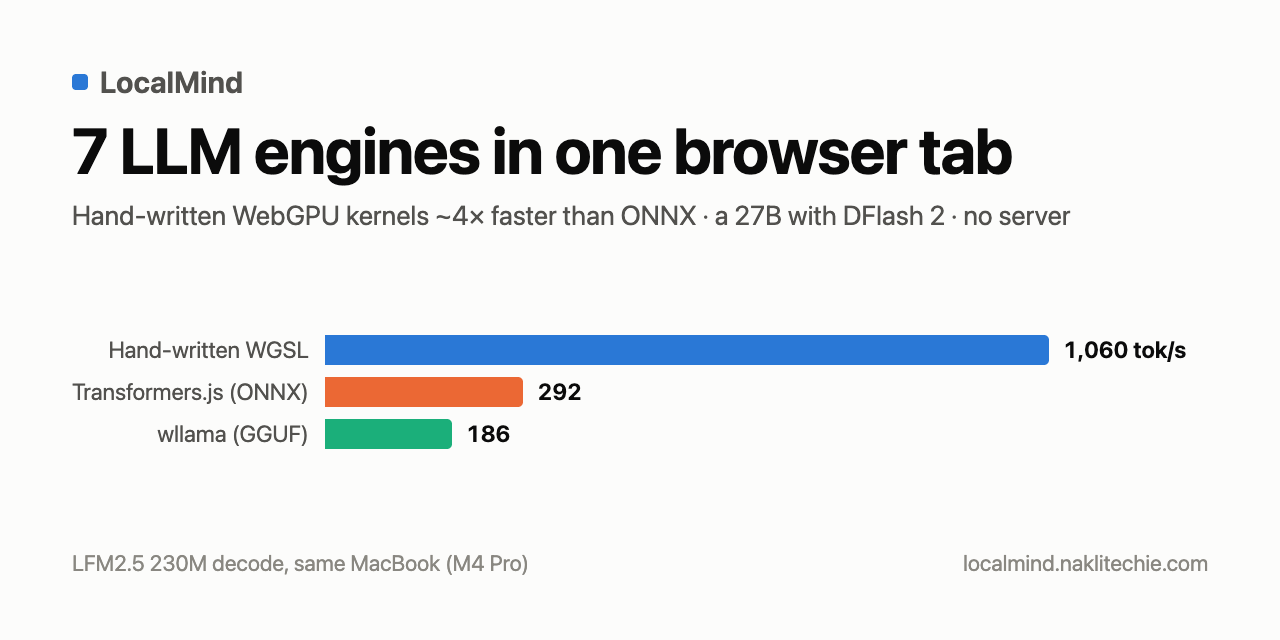
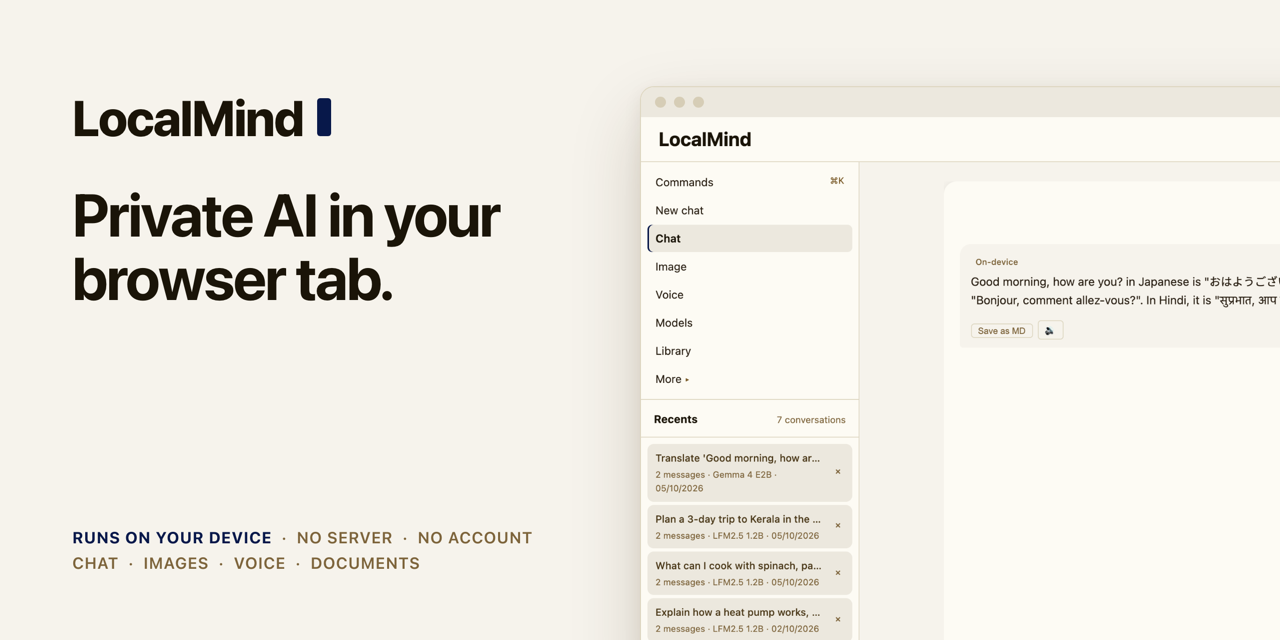
docs(readme): the house shape around the new UI, 1,557 -> 997 words (110 lines); new link cards
README rebuilt to README-DOCTRINE: header, install before why, three product
sections, commands, the six Node suites as the gate, license + pointers. The
hero is the redesigned app (sidebar, picker, a Gemma 4 E2B answer on the device).

Cut, not deleted: engine and model credits, the Mayur acknowledgment and the
host-worker paragraph move to ARCHITECTURE.md (## Credits, ## Using the workers
from another host); the image-server paragraph moves to FEATURES.md.

Link cards: marketing/social.png (repo, 1280x640) and og.png (app, 1200x630)
are one composition: the name, "Private AI in your browser tab.", the app.
They replace the September "7 LLM engines" chart, which the nine-engine app
had outgrown. index.html meta description / og:title / og:description /
og:image:alt follow the README pitch.

Changed region(s): [[0.0312, 0.0938, 1.0, 1.0], [0.0625, 0.8125, 0.4062, 0.9062], [0.75, 0.875, 0.9375, 0.9062]]

diff --git a/index.html b/index.html
@@ -5,15 +5,15 @@
   <meta name="viewport" content="width=device-width, initial-scale=1.0">
   <meta name="author" content="Chirag Patnaik">
   <meta name="version" content="2.6.0">
-  <meta name="description" content="Seven LLM engines in one browser tab: hand-written WebGPU kernels about 4x faster than ONNX, a 27B with DFlash 2 speculative decoding, plus image, voice and OCR. No server, no data leaves your device.">
+  <meta name="description" content="Private AI in your browser tab: chat, make images, talk to your documents and use your voice, with the models running on your own device. No server, no account.">
   <meta property="og:type" content="website">
   <meta property="og:url" content="https://localmind.naklitechie.com/">
-  <meta property="og:title" content="LocalMind — 7 LLM engines in one browser tab">
-  <meta property="og:description" content="Seven LLM engines in one browser tab: hand-written WebGPU kernels about 4x faster than ONNX, a 27B with DFlash 2 speculative decoding, plus image, voice and OCR. No server, no data leaves your device.">
+  <meta property="og:title" content="LocalMind — private AI in your browser tab">
+  <meta property="og:description" content="Private AI in your browser tab: chat, make images, talk to your documents and use your voice, with the models running on your own device. No server, no account.">
   <meta property="og:image" content="https://localmind.naklitechie.com/og.png">
   <meta property="og:image:width" content="1200">
   <meta property="og:image:height" content="630">
-  <meta property="og:image:alt" content="LocalMind: LFM2.5 230M decodes at 1,060 tok/s on hand-written WGSL kernels vs 292 on ONNX and 186 on wllama">
+  <meta property="og:image:alt" content="LocalMind: Private AI in your browser tab, beside the app with its sidebar and a chat answered on the device">
   <meta name="twitter:card" content="summary_large_image">
   <meta name="twitter:image" content="https://localmind.naklitechie.com/og.png">
   <title>LocalMind — Private AI Chat in Your Browser</title>

diff --git a/README.md b/README.md
@@ -1,114 +1,110 @@
-# LocalMind
+<h1 align="center">LocalMind</h1>
 
-**Private AI in your browser tab.** Chat, generate images, search the web, and talk to your documents — running entirely on your own device. No server, no API keys, no data leaving your machine.
+<p align="center"><b>Private AI in your browser tab. Chat, make images, talk to your documents and use your voice,<br>with the models running on your own device.</b></p>
 
-**▶ [Try it live](https://naklitechie.github.io/LocalMind)**  ·  **[Guided tour](https://naklitechie.github.io/LocalMind/guide/)**
+<p align="center">A static web page with no build step. Chrome, Edge or Firefox with WebGPU. No account, no server, no telemetry.</p>
 
-![LocalMind running on-device](guide/img/01-overview.jpg)
+<p align="center">
+  <img alt="license: MIT" src="https://img.shields.io/badge/license-MIT-08184a?style=flat-square">
+  <img alt="build step: none" src="https://img.shields.io/badge/build%20step-none-08184a?style=flat-square">
+  <img alt="account: none" src="https://img.shields.io/badge/account-none-08184a?style=flat-square">
+  <img alt="server: none" src="https://img.shields.io/badge/server-none-08184a?style=flat-square">
+</p>
 
-## What is it?
+<p align="center"><img src="marketing/hero.jpg" width="880" alt="LocalMind in Chrome: the sidebar with Chat, Image, Voice, Models and Library on the left, and Gemma 4 E2B answering a Japanese, French and Hindi translation on the device"></p>
 
-LocalMind is a single web page that runs real AI models **on your own device**. Open the link, pick a model, and start chatting — the model downloads once, caches in your browser, and works offline after that. Your conversations, files, and memory never leave your machine.
+## Install
 
-It began as a private chatbot and grew into a small **AI workbench**: chat, image generation, document Q&A, OCR, web research, and voice — all local.
+| Where | How |
+|---|---|
+| Your browser | Open **[localmind.naklitechie.com](https://localmind.naklitechie.com)** in Chrome or Edge 113+, or Firefox 130+ |
+| Your own copy | `git clone https://github.com/NakliTechie/LocalMind && cd LocalMind && python3 -m http.server 8080` |
 
-> **The promise: no server · no API keys · no data leaving your device.** The only thing that ever touches the network is a web search — and only when *you* press the search button.
+On first open LocalMind downloads LFM2.5 230M (~140 MB) once and keeps it in the browser's cache, so the next start
+skips the download; where Chrome already has Gemini Nano, it starts on that with no download. Tap an example prompt or
+type. The model picker above the message box lists what is already on this device first; pick a bigger model when you
+want more. To drive the loaded model from a script, turn on Settings → JavaScript API:
 
-## What you can do
-
-- 💬 **Chat with private local models** — eleven to choose from, from a tiny ~140 MB model (or Chrome's own Gemini Nano, a 0-byte download) up to a **27B-class model (Ternary Bonsai 2 27B, ternary 1.75-bit)** running entirely in the tab. They reason, write, and code.
-- 🎨 **Generate images** — text-to-image on your GPU, right in the tab.
-- 🌫 **Watch text "denoise"** — an experimental diffusion-text mode (a different way of generating).
-- 🌐 **Search the web** *(optional)* — bring your own free search key; answers come back with clickable sources.
-- 📄 **Chat with your documents** — drop in PDFs, Word docs, notes, or a whole folder and ask questions across them. Multilingual search (100+ languages, via a multilingual‑e5 embedder) — ask in one language about documents in another. Flip on **sharper answers** (Settings) and it double-checks which passages *actually* answer your question — so replies quote the right part, not just a keyword match. It remembers across sessions.
-- 🔎 **Extract text from images & PDFs (OCR)** — drop in a photo, screenshot, or scanned PDF and get back clean, selectable text or Markdown — tables and formulas included. Runs entirely on your GPU (GLM-OCR); the document never leaves your device. Needs WebGPU (Chrome/Edge); the model downloads once (~1.4 GB), then works offline. You can also point it at the model folder on disk for zero runtime fetch.
-- 🖼 **See & hear** — some models accept images and audio; voice-to-text works on any model.
-- 📷 **Point your camera** — describe what it sees, or drop in an image and ask about it — on-device captioning & visual Q&A (SmolVLM, WebGPU). Downloads ~0.9 GB once, then works offline.
-- 🔊 **Voice in and out** — read any reply aloud (🔊, Kokoro-82M, English + Hindi), or go fully hands-free (🎙 **Voice mode**): hold to talk, it transcribes (Moonshine), answers, and reads back. Both run on-device; nothing leaves your machine.
-- 🎭 **Clone a voice** — record 5–10 seconds of a voice, then make it say anything *in that voice* — zero-shot, entirely in the tab (Chatterbox). A heavy first download (~1.4 GB), then offline. The reference audio never leaves your device.
-- 🧠 **It remembers** — a private, on-device memory you can browse, search, and tidy up.
-- 🔌 **Use *any* model** — point it at your own Ollama / LM Studio, load a GGUF from a URL, or **open a `.gguf` straight from your disk** (no download — fully offline).
-- 📱 **Phone to desktop** — installable as an app; works offline.
-
-*Every feature, in detail → [FEATURES.md](./FEATURES.md).*
-
-## Three ways to run a model
-
-Pick whatever fits your hardware — all three are local, nothing leaves your device:
-
-| | How it runs | Best for |
-|---|---|---|
-| **In your browser** | On your GPU via WebGPU — zero setup | The private default; nothing to install |
-| **In-browser GGUF** | A GGUF loaded into the tab (llama.cpp → WebAssembly) — from a URL **or a local file on disk** | The huge GGUF ecosystem, no setup; runs on CPU even without a GPU |
-| **Your own server** | Point it at Ollama / LM Studio on your machine | Big models (7B–70B+) at full speed |
-
-The same split applies to **image generation**: Image mode runs a 4B diffusion model in the tab by default, or talks to a local [stable-diffusion.cpp](https://github.com/leejet/stable-diffusion.cpp) server for bigger ones (Qwen-Image 2.1, FLUX.2, Z-Image …). `scripts/image-server.sh` fetches `sd-server` for your platform, downloads a stock Qwen-Image 2.1 recipe if you give it no model (~10 GB), and serves on `127.0.0.1:7860`; pick **Local server** in Image mode's model menu and Send. Bring your own files with `--dit / --vae / --llm`. Nothing leaves the machine either way.
-
-Two GGUF models ship in the picker: LFM2.5 230M (the CPU fallback when there is no WebGPU) and **MiniCPM5 2B** — OpenBMB's Apache-2.0 2B, which gets a 16K context for long documents. It's a GGUF-only release with no ONNX build, so the in-tab llama.cpp path is the only way to run it in a browser. It calls tools too, in its own XML format rather than the JSON the other models use — LocalMind reads both.
-
-### Custom WebGPU engine (the default)
-
-The default model, **LFM2.5 230M**, runs on a **from-scratch WebGPU inference engine** — every kernel (matmul, attention, RoPE, RMSNorm, the int4 dequant) is hand-written WGSL, reading the quantized weights directly with **no ONNX runtime and no llama.cpp**. At ~140 MB it downloads in seconds and decodes at ~1,060 tokens/sec on an M4 Pro — 3.6× the same model on ONNX — so you're chatting almost immediately. **Gemma 4 E2B** runs on the same approach at ~170 tok/s, 4× its ONNX build, and it scales all the way up to **Ternary Bonsai 2 27B**, a 27B-parameter model (ternary, ~5.9 GB) running entirely in the tab. All are WebGPU-only.
-
-These engines are ported, largely verbatim, from the open-source [`webml-community`](https://huggingface.co/webml-community) Spaces on Hugging Face — [`lfm2-webgpu-kernels`](https://huggingface.co/spaces/webml-community/lfm2-webgpu-kernels), [`gemma-4-webgpu-kernels`](https://huggingface.co/spaces/webml-community/gemma-4-webgpu-kernels), and [`ternary-bonsai-2-webgpu-kernels`](https://huggingface.co/spaces/webml-community/ternary-bonsai-2-webgpu-kernels) (the 27B). `webml-community` is the home of [**Transformers.js**](https://github.com/huggingface/transformers.js), the in-browser ML library by **[Xenova](https://github.com/xenova) (Joshua Lochner)** at Hugging Face — the foundation this entire project is built on, and where these WebGPU-kernel engines come from. LocalMind's contribution is the integration: adapting each engine's stream into the shared chat protocol and slotting it in next to the other backends. The Gemma engine also has a standalone home at [tylerstraub/gemma4-webgpu](https://github.com/tylerstraub/gemma4-webgpu). **Full credit for Transformers.js and the WGSL kernels goes upstream.**
-
-The LFM2 engine is exposed through the DOM-free
-[`inference-worker.js`](./inference-worker.js) boundary used by LocalMind
-itself. Hosts can also use the conservative
-[`host-model-catalog.js`](./host-model-catalog.js) and
-[`onnx-inference-worker.js`](./onnx-inference-worker.js) for the supported
-Gemma 4 and Qwen3.5 WebGPU paths. The same catalog publishes the on-device Bonsai
-FLUX.2-Klein model through
-[`image-inference-worker.js`](./image-inference-worker.js); the worker is
-generated from LocalMind's inline image engine by
-[`scripts/extract-image-worker.mjs`](./scripts/extract-image-worker.mjs).
-NakliOS vendors these tested artifacts for its shared `naklios.ai` broker;
-model selection, cloud/local endpoint credentials, consent, and app isolation
-remain host responsibilities. The worker protocols are documented in
-[`INFERENCE-PROTOCOL.md`](./INFERENCE-PROTOCOL.md).
-
-**Read-aloud** uses [**Kokoro-82M**](https://huggingface.co/hexgrad/Kokoro-82M) (Apache-2.0) via [`kokoro-js`](https://www.npmjs.com/package/kokoro-js); **Voice mode** transcribes with [**Moonshine**](https://huggingface.co/onnx-community/moonshine-base-ONNX) (English) and keeps Whisper-base as the multilingual fallback. All of it runs on WebAssembly so it never competes with the chat model's GPU — and entirely on-device.
-
-**Voice cloning** (🎭) uses [**Chatterbox**](https://huggingface.co/onnx-community/chatterbox-ONNX) (Resemble AI, MIT) on WebGPU — a first-class Transformers.js model. **Live Vision** (📷) uses [**SmolVLM**](https://huggingface.co/HuggingFaceTB/SmolVLM-500M-Instruct) (Hugging Face, Apache-2.0); the optional retrieval **reranker** uses [ms-marco-MiniLM](https://huggingface.co/Xenova/ms-marco-MiniLM-L-6-v2) or [bge-reranker-v2-m3](https://huggingface.co/onnx-community/bge-reranker-v2-m3-ONNX).
-
-## Try it in 30 seconds
-
-1. Open **[naklitechie.github.io/LocalMind](https://naklitechie.github.io/LocalMind)** in Chrome or Edge.
-2. Pick a model — the default is **LFM2.5 230M** (~140 MB, on the custom WebGPU engine), small and fast so you're chatting in seconds; pick a bigger one anytime for more capability. *(On desktop Chrome/Edge where Gemini Nano is already downloaded, LocalMind starts on Nano — zero download.)*
-3. Wait for the one-time download, then chat.
-
-To run it yourself, it's one HTML file with no build step:
-
-```bash
-python3 -m http.server 8080   # then open http://localhost:8080
+```js
+await window.localmind.load('lfm2-230m-webgpu');
+const r = await window.localmind.chat.completions.create({ messages: [{ role: 'user', content: 'Hello' }] });
 ```
 
-No dependencies, no backend. (Needs an HTTP server — it won't run from a `file://` path.)
+No account, no API key, no config file. Your own copy needs an HTTP server; `file://` will not load the workers.
 
-## Privacy
+## Why
 
-Everything runs on your device. Models download from Hugging Face once and cache locally; after that you can go fully offline. There's no account, no telemetry, no backend. Web search is opt-in and uses *your* key, sent straight from your browser to the provider you chose.
+You want help with things you would rather not paste into a website: a contract, your notes, a letter from the doctor.
+A hosted chatbot sends every word to someone else's server. LocalMind runs the model inside your browser tab instead.
+Models download once from Hugging Face; what you type, the files you add and the memory it keeps stay on your machine.
+Web search is the one exception, and it runs only when you turn it on, with your own search key.
 
-## Browser support
+In-tab models need WebGPU, so Safari does not work yet. Small models answer in seconds on a laptop. Ternary Bonsai 2 27B
+is a ~5.9 GB download and needs a GPU with the memory to hold it. For 7B–70B models at full speed, point LocalMind at
+your own Ollama, LM Studio or llama.cpp server; the browser then only streams the answer.
 
-Works in **Chrome / Edge 113+** and **Firefox 130+** — in-browser models need WebGPU (the "your own server" mode works without it). Safari's WebGPU support isn't there yet.
+## Find your way around
 
-## Learn more
+The sidebar holds Chat, Image, Voice, Models and Library; Compare, Batch, Diffuse, OCR, Vision, Clone and Folder sit
+under More. Press ⌘K (Ctrl+K on Windows and Linux) for a palette of every action, from switching models to opening a
+setting. Library searches the full text of every saved chat, with your on-device memory in the tab beside it.
 
-- 📖 **[Full feature guide](./FEATURES.md)** — models, agent tools, memory, web search, batch, sharing, MCP, custom models, and more
-- 🛠 **[How it works](./ARCHITECTURE.md)** — architecture, the runtimes, workers, and tech stack
-- 🧑💻 **[Developer API](./API.md)** — drive the model from your own page (`window.localmind`)
-- ⏱ **Benchmark the engines yourself** — `node scripts/bench-engines.mjs` drives Chrome through that API and prints decode tok/s per engine (same model, same prompt, exact token counts)
-- 🗺 **[Roadmap](./ROADMAP.md)** — what's shipped and what's next
+Settings → General → Appearance picks light, dark or your system's theme. On a phone the composer gets the full width,
+with attach and voice stacked beside a taller text box, and everything else moves into the menu.
 
-## Acknowledgments
+## Pick a model, or bring your own
 
-- **Local-file GGUF loading** was suggested by [@Mayur88888888](https://github.com/Mayur88888888) ([#6](https://github.com/NakliTechie/LocalMind/pull/6)). Thanks!
+The picker groups models as on this device, partly downloaded, or to download, with each size. They range from LFM2.5
+230M on hand-written WebGPU kernels (~1,060 tokens/s on an M4 Pro) to Ternary Bonsai 2 27B, plus Chrome's built-in
+Gemini Nano with no download at all. Two experimental engines stream mixture-of-experts models larger than GPU memory
+(Qwen3.6 35B-A3B, Gemma 4 26B-A4B) from the browser's private storage.
 
----
+Every path is local. A model runs in the tab on WebGPU, or as a GGUF through llama.cpp compiled to WebAssembly (from a
+URL or a `.gguf` file on your disk, on CPU when there is no GPU), or on your own Ollama, LM Studio or llama.cpp server.
+Settings → Models adds any Hugging Face ONNX repo or GGUF URL to the picker.
 
-## Part of the NakliTechie series
+## Documents, images and voice
 
-A growing collection of browser-native tools that run entirely on your device — no server, no data leaving your machine. Full portfolio: **[naklitechie.github.io](https://naklitechie.github.io/)**.
+Drop PDFs, Word files, notes or a whole folder into a chat and ask across them, in one language about documents in
+another. LocalMind remembers between sessions. OCR turns photos and scanned PDFs into selectable text with GLM-OCR on
+your GPU. Image mode draws with a 4B diffusion model in the tab, or sends the prompt to your own stable-diffusion.cpp
+server for bigger models.
 
-Built by [Chirag Patnaik](https://github.com/NakliTechie) · MIT licensed · with [Claude Code](https://claude.com/claude-code).
+Voice mode is hold-to-talk: Moonshine transcribes, the model answers and Kokoro reads the reply aloud. Clone makes any
+text sound like a 5–10 second voice sample, with Chatterbox. Each model downloads once and runs on your device.
+
+## Commands
+
+```bash
+python3 -m http.server 8080              # serve your copy, then open http://localhost:8080
+scripts/image-server.sh                  # a local stable-diffusion.cpp server for Image mode on 127.0.0.1:7860
+node scripts/bench-engines.mjs           # decode tok/s per engine: drives Chrome, same model and prompt, exact token counts
+node scripts/test-inference-worker.mjs   # UI and worker contracts (the full gate is below)
+```
+
+With Settings → JavaScript API on, `window.localmind` is an OpenAI-shaped client for the loaded model, and
+`window.localmind.commands` lists and runs every ⌘K palette command ([API.md](./API.md)).
+
+## Verify it yourself
+
+```bash
+for t in download-stall endpoint engine-fetch inference-worker moe-expert-stream token-count; do
+  node scripts/test-$t.mjs || { echo "FAILED: $t"; break; }
+done
+```
+
+These six suites need Node and nothing else: no install, no model download, no browser. They refuse a sidebar or
+palette command that maps to no real control, a model without its Settings entry, a load failure that shows no Retry,
+a truncated model download that the cache would keep, and a token estimate outside its bounds against each model's
+own tokenizer. Two more suites drive Chrome with WebGPU: `scripts/test-qwen35-kernels.mjs` checks the SSD engine's
+WGSL kernels against llama.cpp's CPU ops, and `scripts/test-ple-opfs.mjs` checks Gemma 4 gives identical output with
+its embedding table on disk. `bench-engines.mjs --suite dflash` checks DFlash 2 output is byte-identical to plain decoding.
+
+## License
+
+MIT. Built on [Transformers.js](https://github.com/huggingface/transformers.js) and the
+[webml-community](https://huggingface.co/webml-community) WebGPU kernels; full credits in
+[ARCHITECTURE.md](./ARCHITECTURE.md#credits). Part of the [NakliTechie](https://naklitechie.github.io/) series, built
+by [Chirag Patnaik](https://github.com/NakliTechie) with [Claude Code](https://claude.com/claude-code).
+
+[Features](./FEATURES.md) · [Architecture](./ARCHITECTURE.md) · [API](./API.md) · [Roadmap](./ROADMAP.md) · [Guided tour](https://naklitechie.github.io/LocalMind/guide/)

diff --git a/ARCHITECTURE.md b/ARCHITECTURE.md
@@ -114,3 +114,30 @@ the two outputs are byte-identical; `--suite ple` does the same for Gemma 4 E2B 
 and from OPFS, and fails a row whose engine reports the other mode. GitHub Pages, Netlify, S3, or
 `python3 -m http.server` all work. They must be served over HTTP — `file://`
 won't work because ES module workers and WebGPU both require an HTTP origin.
+
+## Using the workers from another host
+
+The LFM2 engine is exposed through the DOM-free
+[`inference-worker.js`](./inference-worker.js) boundary used by LocalMind
+itself. Hosts can also use the conservative
+[`host-model-catalog.js`](./host-model-catalog.js) and
+[`onnx-inference-worker.js`](./onnx-inference-worker.js) for the supported
+Gemma 4 and Qwen3.5 WebGPU paths. The same catalog publishes the on-device Bonsai
+FLUX.2-Klein model through
+[`image-inference-worker.js`](./image-inference-worker.js); the worker is
+generated from LocalMind's inline image engine by
+[`scripts/extract-image-worker.mjs`](./scripts/extract-image-worker.mjs).
+NakliOS vendors these tested artifacts for its shared `naklios.ai` broker;
+model selection, cloud/local endpoint credentials, consent, and app isolation
+remain host responsibilities. The worker protocols are documented in
+[`INFERENCE-PROTOCOL.md`](./INFERENCE-PROTOCOL.md).
+
+## Credits
+
+These engines are ported, largely verbatim, from the open-source [`webml-community`](https://huggingface.co/webml-community) Spaces on Hugging Face — [`lfm2-webgpu-kernels`](https://huggingface.co/spaces/webml-community/lfm2-webgpu-kernels), [`gemma-4-webgpu-kernels`](https://huggingface.co/spaces/webml-community/gemma-4-webgpu-kernels), and [`ternary-bonsai-2-webgpu-kernels`](https://huggingface.co/spaces/webml-community/ternary-bonsai-2-webgpu-kernels) (the 27B). `webml-community` is the home of [**Transformers.js**](https://github.com/huggingface/transformers.js), the in-browser ML library by **[Xenova](https://github.com/xenova) (Joshua Lochner)** at Hugging Face — the foundation this entire project is built on, and where these WebGPU-kernel engines come from. LocalMind's contribution is the integration: adapting each engine's stream into the shared chat protocol and slotting it in next to the other backends. The Gemma engine also has a standalone home at [tylerstraub/gemma4-webgpu](https://github.com/tylerstraub/gemma4-webgpu). **Full credit for Transformers.js and the WGSL kernels goes upstream.**
+
+**Read-aloud** uses [**Kokoro-82M**](https://huggingface.co/hexgrad/Kokoro-82M) (Apache-2.0) via [`kokoro-js`](https://www.npmjs.com/package/kokoro-js); **Voice mode** transcribes with [**Moonshine**](https://huggingface.co/onnx-community/moonshine-base-ONNX) (English) and keeps Whisper-base as the multilingual fallback. All of it runs on WebAssembly so it never competes with the chat model's GPU — and entirely on-device.
+
+**Voice cloning** (🎭) uses [**Chatterbox**](https://huggingface.co/onnx-community/chatterbox-ONNX) (Resemble AI, MIT) on WebGPU — a first-class Transformers.js model. **Live Vision** (📷) uses [**SmolVLM**](https://huggingface.co/HuggingFaceTB/SmolVLM-500M-Instruct) (Hugging Face, Apache-2.0); the optional retrieval **reranker** uses [ms-marco-MiniLM](https://huggingface.co/Xenova/ms-marco-MiniLM-L-6-v2) or [bge-reranker-v2-m3](https://huggingface.co/onnx-community/bge-reranker-v2-m3-ONNX).
+
+- **Local-file GGUF loading** was suggested by [@Mayur88888888](https://github.com/Mayur88888888) ([#6](https://github.com/NakliTechie/LocalMind/pull/6)). Thanks!

diff --git a/FEATURES.md b/FEATURES.md
@@ -44,6 +44,8 @@ Beyond chat, LocalMind has two on-device generation paradigms (mode chips above 
 - **🎨 Image** — text-to-image diffusion in the tab (FLUX.2-Klein 4B, ternary/1-bit, WebGPU). The chat model is freed while it runs; one click brings it back. No server, no API key. Size / steps / seed controls + a re-roll button.
 - **🌫 Diffuse** — masked-diffusion *text* (a different paradigm from normal left-to-right generation; Qwen3-0.6B MDLM). The answer "denoises" out of a fog of masked tokens. A showcase of the paradigm, not a daily driver.
 
+The same split applies to **image generation**: Image mode runs a 4B diffusion model in the tab by default, or talks to a local [stable-diffusion.cpp](https://github.com/leejet/stable-diffusion.cpp) server for bigger ones (Qwen-Image 2.1, FLUX.2, Z-Image …). `scripts/image-server.sh` fetches `sd-server` for your platform, downloads a stock Qwen-Image 2.1 recipe if you give it no model (~10 GB), and serves on `127.0.0.1:7860`; pick **Local server** in Image mode's model menu and Send. Bring your own files with `--dit / --vae / --llm`. Nothing leaves the machine either way.
+
 ## Token saver
 
 On by default (Settings → General). Small local models have small context windows and slow generation, so big inputs are expensive. The token saver:
